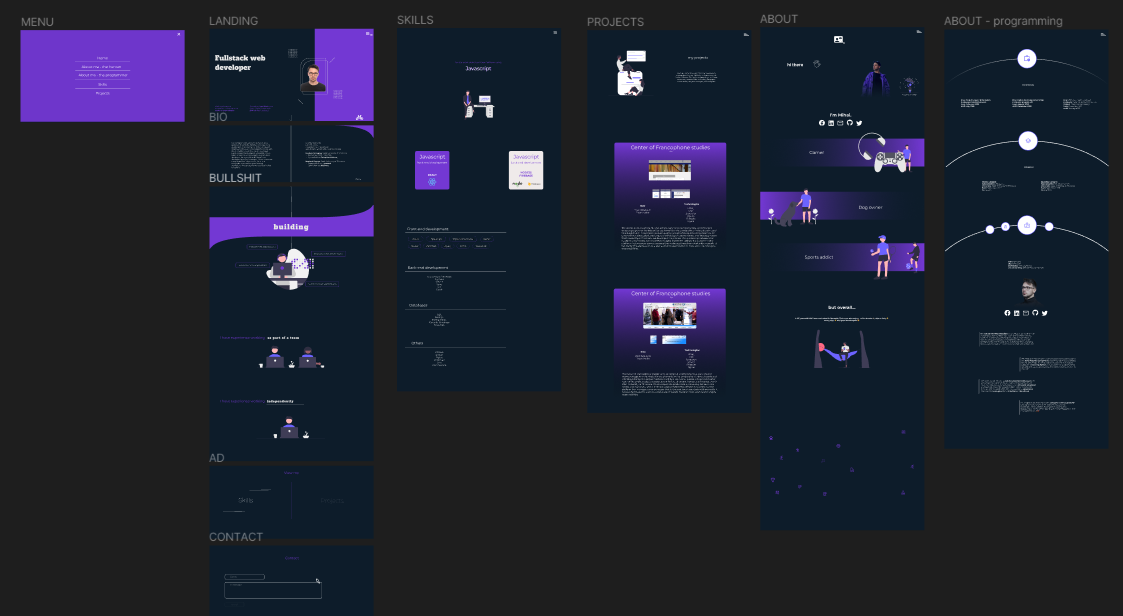
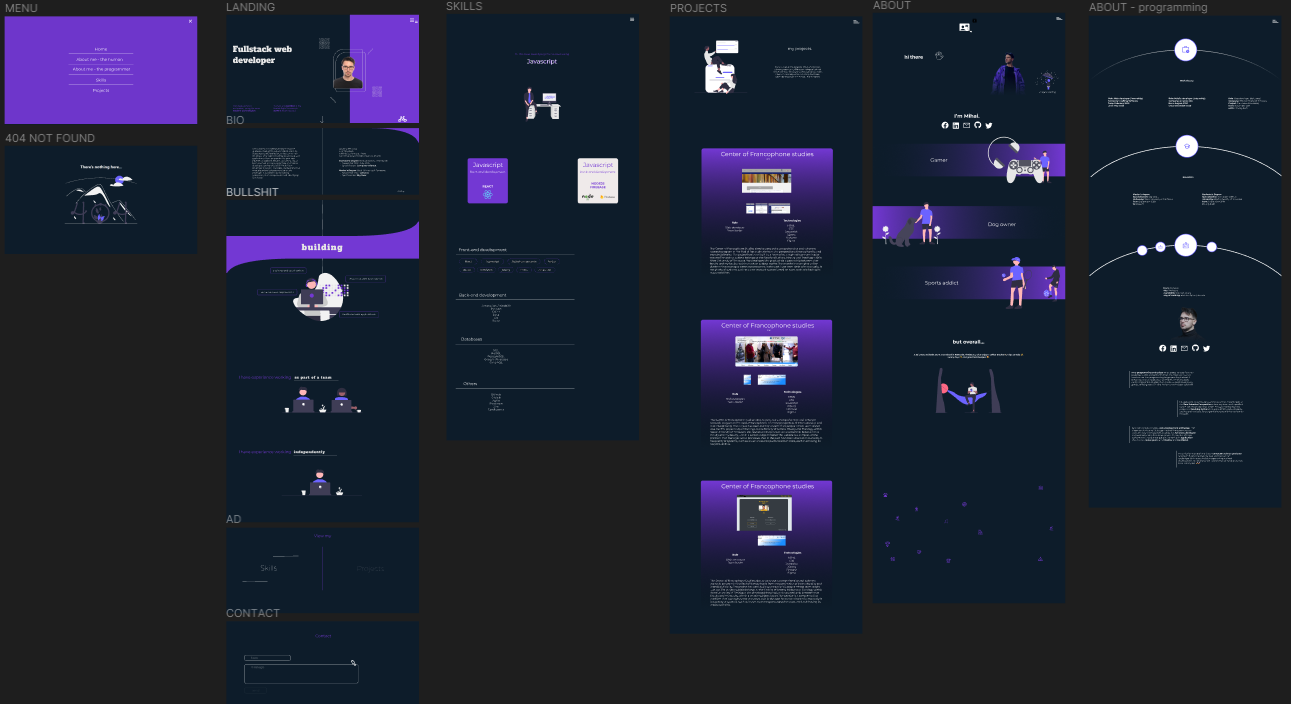
web title

diff --git a/src/App.tsx b/src/App.tsx
@@ -9,32 +9,72 @@ import About from './Components/about/About';
 import AboutIT from './Components/aboutIT/AboutIT';
 import Projects from './Components/projects/Projects';
 
+const notFoundSvg = <svg width="724" height="481" viewBox="0 0 724 481" fill="none" xmlns="http://www.w3.org/2000/svg">
+  <g clip-path="url(#clip0_247_18)">
+    <path d="M366.773 135.19C360.317 124.508 352.668 113.102 340.688 109.614C326.815 105.575 312.563 113.599 300.474 121.518C264.323 145.199 229.508 170.864 196.189 198.393L196.226 198.808C222.166 197.018 248.105 195.228 274.045 193.438C292.786 192.145 312.172 190.674 328.734 181.803C335.019 178.437 341.145 173.941 348.267 173.628C357.115 173.239 364.83 179.421 370.893 185.881C406.757 224.09 417.135 282.522 457.371 316.093C431.999 253.49 401.705 193 366.773 135.19Z" fill="#F2F2F2" />
+    <path d="M587.223 459.278C583.257 454.268 581.636 453.094 577.724 448.038C545.871 406.819 515.931 364.207 487.905 320.204C468.868 290.318 450.776 259.859 433.628 228.825C425.464 214.072 417.523 199.202 409.807 184.217C403.819 172.598 397.965 160.909 392.245 149.151C390.609 145.792 389.019 142.419 387.437 139.037C383.71 131.085 380.052 123.095 376.125 115.251C371.649 106.311 366.202 96.938 357.983 90.9315C354.243 88.0858 349.771 86.364 345.089 85.9673C338.399 85.535 332.226 88.2989 326.423 91.3175C283.967 113.467 244.22 141.238 208.27 172.837C172.227 204.508 140.01 240.288 112.277 279.448C111.429 280.66 109.422 279.502 110.279 278.282C113.651 273.511 117.09 268.791 120.596 264.123C164.188 206.116 217.638 156.234 278.504 116.756C288.744 110.117 299.177 103.789 309.802 97.7717C315.157 94.7376 320.536 91.7421 326.007 88.9319C331.37 86.1758 337.064 83.6975 343.191 83.6049C364.041 83.2806 374.836 106.905 382.252 122.801C384.582 127.804 386.941 132.791 389.328 137.763C398.348 156.64 407.716 175.344 417.431 193.875C423.426 205.317 429.553 216.691 435.811 227.999C455.287 263.212 475.988 297.712 497.913 331.498C526.958 376.253 555.771 415.79 588.859 457.642C589.769 458.8 588.141 460.452 587.223 459.278Z" fill="#E4E4E4" />
+    <path d="M206.209 161.172C204.998 159.82 203.794 158.469 202.575 157.118C192.96 146.48 182.643 135.964 169.44 129.865C163.145 126.865 156.273 125.272 149.3 125.195C142.093 125.218 135.048 127.109 128.389 129.757C125.241 131.016 122.162 132.444 119.13 133.965C115.665 135.71 112.262 137.57 108.874 139.446C102.516 142.967 96.2399 146.642 90.0464 150.471C77.7231 158.091 65.7858 166.293 54.2344 175.076C48.2462 179.631 42.3817 184.335 36.6407 189.189C31.301 193.697 26.0693 198.327 20.9456 203.078C19.8499 204.089 18.214 202.452 19.3096 201.441C20.66 200.183 22.0258 198.932 23.3917 197.697C27.2499 194.207 31.1699 190.784 35.1517 187.428C42.4126 181.299 49.8615 175.405 57.4984 169.749C69.3741 160.948 81.6586 152.743 94.3519 145.136C100.695 141.338 107.125 137.699 113.643 134.22C115.611 133.17 117.602 132.143 119.616 131.17C124.185 128.864 128.933 126.93 133.814 125.388C140.727 123.15 148.041 122.431 155.258 123.28C162.225 124.294 168.938 126.617 175.043 130.128C188.006 137.377 198.06 148.587 207.845 159.527C208.833 160.639 207.205 162.283 206.209 161.172Z" fill="#E4E4E4" />
+    <path d="M471.826 271.417L502.89 260.049L518.314 254.405C523.337 252.567 528.348 250.474 533.54 249.158C538.053 247.868 542.844 247.929 547.322 249.334C551.316 250.813 554.972 253.08 558.072 256.001C561.24 258.919 564.187 262.068 566.889 265.422C570.247 269.459 573.556 273.539 576.879 277.605C590.594 294.387 604.22 311.242 617.756 328.17C631.292 345.097 644.737 362.097 658.091 379.168C671.479 396.281 684.774 413.466 697.977 430.722C699.595 432.836 701.211 434.951 702.825 437.067C703.717 438.236 705.729 437.083 704.824 435.898C691.524 418.468 678.13 401.11 664.644 383.823C651.125 366.495 637.512 349.24 623.806 332.058C610.101 314.878 596.302 297.771 582.411 280.739C578.951 276.496 575.484 272.258 572.012 268.024C569.083 264.452 566.187 260.842 562.975 257.518C557.078 251.417 549.711 246.025 540.893 245.878C535.708 245.792 530.69 247.438 525.873 249.182C520.68 251.062 515.499 252.976 510.312 254.874L479.031 266.322L471.211 269.183C469.823 269.691 470.423 271.93 471.826 271.417Z" fill="#E4E4E4" />
+    <path d="M165.352 143.252C149.566 135.135 129.35 136.725 114.844 146.866C142.513 151.642 169.88 158.033 196.804 166.005C185.623 159.449 176.878 149.179 165.352 143.252Z" fill="#F2F2F2" />
+    <path d="M114.688 146.838L111.649 149.309C112.677 148.444 113.746 147.633 114.844 146.866C114.792 146.857 114.74 146.847 114.688 146.838Z" fill="#F2F2F2" />
+    <path d="M556.902 271.53C553.844 267.806 550.538 263.907 545.964 262.394L541.694 262.563C574.2 320.031 618.102 370.246 670.704 410.127C632.77 363.928 594.836 317.729 556.902 271.53Z" fill="#F2F2F2" />
+    <path d="M291.365 240.809C293.341 247.992 297.793 254.244 303.933 258.459C306.307 260.076 309.116 261.628 309.928 264.384C310.355 266.14 310.092 267.994 309.192 269.563C308.295 271.111 307.202 272.538 305.942 273.808L305.827 274.24C299.937 270.747 294.332 266.329 291.078 260.301C287.824 254.273 287.37 246.372 291.365 240.809Z" fill="#F2F2F2" />
+    <path d="M487.488 411.768C489.465 418.951 493.916 425.203 500.056 429.418C502.43 431.036 505.239 432.587 506.051 435.343C506.478 437.1 506.215 438.954 505.316 440.522C504.418 442.07 503.326 443.497 502.065 444.768L501.95 445.199C496.06 441.706 490.455 437.288 487.201 431.26C483.947 425.232 483.493 417.332 487.488 411.768Z" fill="#F2F2F2" />
+    <path d="M96.0832 399.978C98.0593 407.161 102.511 413.413 108.651 417.628C111.025 419.245 113.834 420.796 114.646 423.552C115.073 425.309 114.81 427.163 113.91 428.732C113.013 430.28 111.92 431.707 110.66 432.977L110.545 433.409C104.654 429.916 99.05 425.498 95.796 419.47C92.542 413.442 92.0877 405.541 96.0832 399.978Z" fill="#F2F2F2" />
+    <path d="M546.494 85.9007C570.202 85.9007 589.422 66.6712 589.422 42.9503C589.422 19.2295 570.202 0 546.494 0C522.785 0 503.565 19.2295 503.565 42.9503C503.565 66.6712 522.785 85.9007 546.494 85.9007Z" fill="#6C63FF" />
+    <path d="M623.963 9.99682C603.158 7.18321 579.406 18.4342 574.014 38.7344C572.655 35.125 570.184 32.0413 566.959 29.9288C563.733 27.8162 559.92 26.7843 556.07 26.9819C552.22 27.1796 548.533 28.5966 545.541 31.0284C542.548 33.4602 540.406 36.7807 539.424 40.5103L541.806 42.2171C586.39 51.8634 632.542 51.6547 677.037 41.6053C662.566 26.3884 644.768 12.8104 623.963 9.99682Z" fill="#F0F0F0" />
+    <path d="M534.739 67.264C513.934 64.4504 490.182 75.7013 484.79 96.0016C483.431 92.3922 480.96 89.3085 477.735 87.1959C474.51 85.0834 470.697 84.0514 466.847 84.2491C462.997 84.4467 459.309 85.8638 456.317 88.2955C453.325 90.7273 451.183 94.0478 450.2 97.7774L452.582 99.4842C497.166 109.131 543.318 108.922 587.814 98.8725C573.342 83.6555 555.544 70.0775 534.739 67.264Z" fill="#F0F0F0" />
+    <path d="M716.323 78.0923C716.237 78.0925 716.151 78.0792 716.069 78.0528C493.509 7.6327 297.354 16.8414 171.99 36.9669C154.93 39.7048 137.823 42.867 121.147 46.3664C116.889 47.2588 112.472 48.2153 108.018 49.2112C102.7 50.3963 97.4515 51.6168 92.4191 52.8373C90.2458 53.3521 88.1149 53.8711 86.0264 54.3941C82.8629 55.1754 79.653 55.9896 76.2121 56.8844C72.3672 57.8763 68.4606 58.9166 64.5984 59.9767C64.5843 59.9817 64.5699 59.9858 64.5553 59.9891L64.5557 59.9899C60.1933 61.1816 55.8539 62.4079 51.6576 63.6324C49.3864 64.2887 47.1933 64.936 45.0927 65.575C44.858 65.64 44.65 65.7025 44.4392 65.7666L43.9879 65.904C43.7265 65.9838 43.4684 66.0619 43.2103 66.1359L43.1938 66.1408L43.1942 66.1417L42.5112 66.3539C41.6966 66.6007 40.9017 66.8416 40.12 67.0818C19.4597 73.4539 8.10208 77.9871 7.98988 78.0315C7.88728 78.0727 7.77758 78.0932 7.66705 78.0919C7.55652 78.0906 7.44732 78.0676 7.34569 78.0241C7.24405 77.9806 7.15197 77.9175 7.07471 77.8385C6.99745 77.7594 6.93651 77.6658 6.89538 77.5631C6.85425 77.4605 6.83375 77.3507 6.83502 77.2401C6.83628 77.1296 6.85931 77.0203 6.90278 76.9186C6.94625 76.8169 7.00931 76.7248 7.08836 76.6475C7.16741 76.5702 7.26091 76.5092 7.36351 76.4681C7.47654 76.4237 18.8897 71.8674 39.6251 65.4714C40.4097 65.2305 41.2067 64.9895 42.0237 64.742L42.6583 64.5446C42.6801 64.5364 42.7019 64.5298 42.7241 64.5232C42.9809 64.45 43.2374 64.3719 43.498 64.2929L43.9501 64.1556C44.1753 64.0873 44.3973 64.0199 44.6245 63.9574C46.7108 63.3224 48.9113 62.6736 51.1882 62.0148C55.3862 60.7894 59.7297 59.5631 64.0954 58.3698C64.1089 58.3649 64.1229 58.3616 64.1365 58.3575C68.0122 57.2941 71.9332 56.2488 75.7904 55.2536C79.2367 54.358 82.4527 53.5422 85.6216 52.7592C87.7189 52.237 89.8539 51.7169 92.0266 51.1991C97.0647 49.9769 102.323 48.7548 107.652 47.5672C112.112 46.5704 116.537 45.6115 120.801 44.7184C137.504 41.2132 154.637 38.046 171.724 35.304C297.267 15.1497 493.703 5.92614 716.576 76.4475C716.768 76.508 716.931 76.6351 717.038 76.8059C717.144 76.9767 717.185 77.1798 717.155 77.3785C717.124 77.5772 717.023 77.7585 716.871 77.8894C716.718 78.0203 716.524 78.0923 716.323 78.0923Z" fill="#CCCCCC" />
+    <path d="M221.366 353.574C221.075 352.721 220.584 351.95 219.935 351.325C219.696 351.103 219.437 350.903 219.161 350.727C216.964 349.262 213.681 348.934 211.594 350.727C211.384 350.91 211.189 351.11 211.013 351.325C210.39 352.092 209.75 352.841 209.094 353.574C208.016 354.803 206.914 355.991 205.761 357.145C205.432 357.465 205.104 357.793 204.767 358.113C204.574 358.307 204.38 358.492 204.187 358.677C203.446 359.385 202.688 360.067 201.922 360.741C201.518 361.103 201.114 361.457 200.702 361.802C200.087 362.316 199.473 362.829 198.85 363.326C198.791 363.368 198.732 363.41 198.673 363.461C198.656 363.469 198.648 363.486 198.631 363.495C198.623 363.495 198.614 363.495 198.606 363.511C198.583 363.52 198.563 363.535 198.547 363.554C198.362 363.68 198.236 363.764 198.143 363.84C198.177 363.823 198.21 363.798 198.244 363.781C198.092 363.899 197.932 364.017 197.781 364.135C196.308 365.221 194.801 366.265 193.261 367.242C189.45 369.683 185.447 371.809 181.291 373.601C181.014 373.71 180.727 373.828 180.441 373.937C169.562 378.397 157.76 380.137 146.057 379.007C144.861 378.915 143.666 378.788 142.471 378.628C141.09 378.426 139.718 378.182 138.355 377.904C133.163 376.868 128.084 375.333 123.187 373.323C117.061 370.516 111.234 367.096 105.796 363.116C104.955 362.518 104.105 361.92 103.254 361.339C104.222 358.964 105.174 356.589 106.1 354.197C106.562 353.043 107.009 351.89 107.446 350.727C110.889 341.775 114.121 332.739 117.219 323.669C120.35 314.481 123.305 305.239 126.082 295.945C126.368 295.001 126.646 294.058 126.916 293.115C128.372 288.205 129.769 283.284 131.107 278.352C131.234 277.872 131.368 277.4 131.486 276.92C131.873 275.505 132.252 274.091 132.623 272.676C133.464 269.484 131.562 265.669 128.212 264.903C126.599 264.489 124.888 264.718 123.441 265.541C121.993 266.364 120.921 267.717 120.451 269.315C120.089 270.68 119.727 272.036 119.357 273.4C117.581 279.994 115.712 286.566 113.751 293.115C113.465 294.058 113.178 295.001 112.892 295.945C108.566 310.211 103.816 324.334 98.6418 338.314C98.0189 340.007 97.3876 341.694 96.7479 343.375C96.4364 344.201 96.125 345.026 95.8051 345.851C95.1907 347.477 94.5594 349.102 93.9281 350.727C93.5661 351.679 93.1957 352.631 92.8254 353.574C92.5813 354.172 92.3456 354.77 92.1099 355.359C89.71 354.497 87.2235 353.898 84.6943 353.574L84.2903 353.523C82.3294 353.287 80.3463 353.304 78.3897 353.574C75.4614 353.916 72.6438 354.897 70.1363 356.448C67.6287 358 65.4924 360.083 63.8783 362.551C59.8632 368.876 59.9137 377.921 65.5449 383.294C71.3444 388.827 80.1237 388.785 86.9501 385.323C90.5677 383.365 93.618 380.505 95.8051 377.02C96.643 375.756 97.4129 374.449 98.1115 373.104C98.2883 373.222 98.465 373.339 98.6418 373.466C99.3152 373.937 99.9886 374.417 100.654 374.889C104.528 377.697 108.611 380.206 112.867 382.393C122.018 386.945 131.869 389.925 142.008 391.21C142.235 391.235 142.454 391.269 142.681 391.294C143.801 391.438 144.929 391.547 146.057 391.64C162.236 392.86 178.436 389.547 192.84 382.073C194.06 381.441 195.27 380.779 196.468 380.085C198.328 379.007 200.146 377.862 201.922 376.649C202.89 375.992 203.833 375.327 204.767 374.628C208.85 371.619 212.656 368.251 216.139 364.564C217.461 363.175 218.726 361.74 219.935 360.261C221.079 359.05 221.738 357.462 221.787 355.797C221.781 355.037 221.638 354.284 221.366 353.574ZM81.9839 373.634C82.1607 373.508 82.3374 373.373 82.5058 373.238C82.4553 373.365 82.2111 373.508 81.9839 373.634ZM84.6859 370.914C84.4923 371.133 84.3155 371.352 84.1219 371.571C83.5329 372.23 82.9002 372.849 82.228 373.424C82.1354 373.508 82.0344 373.592 81.9334 373.668C81.9323 373.668 81.9312 373.668 81.9301 373.669C81.9291 373.669 81.9282 373.67 81.9274 373.67C81.9266 373.671 81.926 373.672 81.9256 373.673C81.9252 373.674 81.925 373.675 81.925 373.676C81.8034 373.731 81.6853 373.793 81.5714 373.862C81.2095 374.081 80.8391 374.283 80.4604 374.468C79.7187 374.741 78.9558 374.952 78.1793 375.1C77.5826 375.143 76.9838 375.149 76.3864 375.116H76.3695C75.9573 375.025 75.5499 374.912 75.1491 374.78C74.947 374.679 74.7534 374.561 74.5598 374.443C74.4841 374.375 74.4167 374.308 74.3746 374.266C74.2924 374.191 74.2164 374.109 74.1474 374.022C74.1475 374.021 74.1472 374.019 74.1468 374.018C74.1464 374.017 74.1458 374.016 74.145 374.016C74.1442 374.015 74.1433 374.014 74.1423 374.014C74.1412 374.013 74.1401 374.013 74.139 374.013C74.0464 373.845 73.9454 373.676 73.8528 373.508C73.848 373.504 73.845 373.498 73.8444 373.491C73.7771 373.281 73.7182 373.062 73.6676 372.843C73.6494 372.458 73.6522 372.073 73.676 371.689C73.789 371.151 73.9409 370.622 74.1306 370.106C74.301 369.74 74.495 369.385 74.7114 369.044C74.7282 369.011 74.8124 368.876 74.905 368.724C74.9134 368.716 74.9134 368.716 74.9134 368.708C75.0397 368.564 75.1659 368.413 75.3006 368.278C75.5279 368.025 75.772 367.806 76.0161 367.579C76.4908 367.268 76.9826 366.984 77.4891 366.728C78.2927 366.443 79.1173 366.22 79.9554 366.063C81.1913 365.965 82.4335 365.976 83.6674 366.097C84.8362 366.3 85.9893 366.584 87.1185 366.947C86.4341 368.276 85.6549 369.554 84.7869 370.771C84.7532 370.821 84.7196 370.872 84.6859 370.914ZM75.3258 368.143C75.2517 368.262 75.1641 368.373 75.0649 368.472C75.1317 368.348 75.22 368.236 75.3258 368.143Z" fill="#3F3D56" />
+    <path d="M196.064 267.564C195.988 270.208 195.912 272.853 195.837 275.497C195.677 281.367 195.511 287.24 195.34 293.115C195.163 299.726 194.978 306.334 194.784 312.94C194.692 316.35 194.596 319.761 194.498 323.172C194.237 332.36 193.979 341.545 193.724 350.727C193.699 351.679 193.665 352.622 193.64 353.574C193.513 358.13 193.387 362.686 193.261 367.242C193.118 372.186 192.977 377.129 192.84 382.073C192.739 385.778 192.635 389.487 192.529 393.198C191.771 420.088 191.013 446.978 190.256 473.869C190.224 475.534 189.548 477.122 188.371 478.299C187.194 479.477 185.607 480.153 183.943 480.185C182.273 480.171 180.675 479.502 179.494 478.32C178.313 477.138 177.643 475.54 177.63 473.869C178.051 458.743 178.477 443.618 178.909 428.493C179.288 414.816 179.672 401.139 180.062 387.463C180.189 382.957 180.315 378.449 180.441 373.937C180.635 367.15 180.826 360.362 181.014 353.574C181.039 352.622 181.073 351.679 181.098 350.727C181.115 349.894 181.14 349.068 181.165 348.235C181.536 335.055 181.906 321.872 182.276 308.687C182.428 303.499 182.574 298.308 182.714 293.115C182.882 287.195 183.051 281.277 183.219 275.362C183.295 272.76 183.362 270.166 183.438 267.564C183.47 265.899 184.145 264.311 185.322 263.133C186.499 261.955 188.087 261.28 189.751 261.248C191.421 261.261 193.019 261.931 194.2 263.112C195.381 264.294 196.05 265.893 196.064 267.564Z" fill="#3F3D56" />
+    <path d="M542.376 269.317C535.756 294.396 527.844 319.116 518.671 343.377C516.14 350.07 513.551 356.748 510.783 363.347L511.42 361.838C510.184 364.981 508.606 367.978 506.715 370.775C506.586 370.955 506.455 371.134 506.322 371.311C506.976 370.474 507.1 370.309 506.694 370.815C506.481 371.068 506.269 371.322 506.048 371.569C505.459 372.229 504.827 372.849 504.155 373.424C503.986 373.569 503.814 373.711 503.64 373.849L504.43 373.235C504.338 373.451 503.695 373.738 503.495 373.861C502.846 374.252 502.17 374.595 501.471 374.887L502.979 374.25C501.833 374.712 500.638 375.04 499.417 375.228L501.095 375.002C499.896 375.168 498.68 375.181 497.478 375.041L499.156 375.266C498.172 375.131 497.209 374.871 496.29 374.494L497.798 375.131C497.308 374.917 496.835 374.665 496.385 374.376C496.156 374.227 495.454 373.695 496.372 374.397C497.326 375.126 496.495 374.459 496.299 374.266C496.135 374.104 495.987 373.929 495.827 373.765C495.085 373.003 496.666 375.075 496.161 374.184C495.892 373.738 495.645 373.278 495.422 372.806L496.059 374.315C495.769 373.597 495.563 372.847 495.446 372.082L495.671 373.761C495.551 372.809 495.55 371.846 495.669 370.894L495.443 372.573C495.598 371.51 495.879 370.469 496.281 369.473L495.644 370.982C495.924 370.312 496.256 369.665 496.636 369.047C496.811 368.727 497.016 368.425 497.249 368.144C497.29 368.158 496.181 369.418 496.77 368.782C496.924 368.615 497.068 368.44 497.223 368.275C497.473 368.01 497.74 367.769 498.002 367.519C498.882 366.681 496.772 368.332 497.787 367.669C498.522 367.186 499.296 366.763 500.101 366.407L498.593 367.044C499.94 366.49 501.353 366.11 502.797 365.915L501.119 366.141C502.927 365.933 504.754 365.954 506.557 366.205L504.879 365.98C507.162 366.326 509.393 366.954 511.522 367.849L510.014 367.212C514.55 369.161 518.568 372.054 522.579 374.891C526.453 377.698 530.535 380.205 534.789 382.392C543.941 386.945 553.792 389.926 563.932 391.212C578.473 392.995 593.229 391.095 606.846 385.687C620.462 380.279 632.503 371.536 641.864 360.261C643.006 359.049 643.664 357.46 643.713 355.795C643.701 354.122 643.038 352.52 641.864 351.329C639.548 349.202 635.173 348.601 632.936 351.329C630.817 353.918 628.538 356.373 626.113 358.678C624.981 359.753 623.818 360.794 622.626 361.803C621.945 362.379 621.254 362.943 620.555 363.496C620.223 363.758 619.192 364.455 620.776 363.33C620.413 363.588 620.065 363.869 619.706 364.134C614.405 368.044 608.661 371.313 602.592 373.874L604.1 373.237C597.588 375.97 590.749 377.845 583.755 378.814L585.433 378.589C578.237 379.536 570.948 379.525 563.755 378.556L565.433 378.782C558.242 377.794 551.209 375.877 544.511 373.08L546.019 373.717C539.554 370.855 533.42 367.3 527.722 363.113C524.757 360.917 521.63 358.948 518.368 357.223C514.568 355.281 510.453 354.03 506.215 353.527C498.27 352.592 490.174 355.688 485.807 362.556C481.787 368.876 481.839 377.92 487.468 383.294C493.265 388.829 502.045 388.782 508.878 385.32C515.458 381.985 519.41 375.058 522.19 368.526C528.445 353.826 533.983 338.786 539.142 323.67C544.247 308.714 548.876 293.608 553.03 278.35C553.544 276.46 554.051 274.569 554.55 272.675C555.393 269.484 553.489 265.668 550.141 264.905C548.528 264.49 546.816 264.717 545.367 265.54C543.918 266.363 542.846 267.717 542.376 269.317Z" fill="#3F3D56" />
+    <path d="M605.365 267.563L603.092 348.237L600.832 428.49L599.554 473.869C599.568 475.54 600.238 477.138 601.418 478.319C602.599 479.501 604.197 480.171 605.867 480.185C607.531 480.153 609.118 479.477 610.295 478.3C611.472 477.122 612.148 475.534 612.18 473.869L614.452 393.196L616.712 312.942L617.991 267.563C617.976 265.893 617.307 264.294 616.126 263.113C614.945 261.931 613.348 261.261 611.678 261.247C610.013 261.279 608.426 261.955 607.249 263.133C606.072 264.31 605.397 265.898 605.365 267.563Z" fill="#3F3D56" />
+    <path opacity="0.2" d="M386.852 451.345H388.813V362.041H434.543V360.084H388.813V322.402H424.128C423.61 321.743 423.078 321.093 422.53 320.451H388.813V295.563C388.164 295.286 387.511 295.019 386.852 294.768V320.451H348.426V288.562C347.767 288.592 347.119 288.638 346.465 288.693V320.451H315.809V296.659C315.151 296.951 314.503 297.257 313.859 297.579V320.451H288.089V322.402H313.859V360.084H288.089V362.041H313.859V451.345H315.809V362.041C319.835 362.04 323.822 362.833 327.542 364.374C331.262 365.915 334.641 368.174 337.488 371.022C340.335 373.871 342.593 377.252 344.133 380.974C345.674 384.695 346.466 388.684 346.465 392.712V451.345H348.426V362.041H386.852V451.345ZM315.809 360.084V322.402H346.465V360.084H315.809ZM348.426 360.084V322.402H349.195C354.14 322.402 359.037 323.377 363.607 325.271C368.176 327.165 372.327 329.941 375.824 333.44C379.321 336.939 382.094 341.093 383.987 345.665C385.879 350.236 386.853 355.136 386.852 360.084H348.426Z" fill="black" />
+    <path d="M374.881 424.568C372.413 435.583 366.502 445.524 358.004 452.949C357.381 453.488 356.758 454.01 356.11 454.524C354.536 454.667 352.973 454.813 351.422 454.962C350.134 455.08 348.863 455.206 347.6 455.324L347.373 455.349L347.213 453.968L346.573 448.376C344.092 444.323 342.554 439.762 342.073 435.033C341.592 430.304 342.181 425.527 343.796 421.056C346.018 415.06 350.041 409.763 353.998 404.508C359.46 397.249 364.772 390.073 364.965 381.222C367.653 384.664 369.888 388.437 371.615 392.448C369.986 393.216 368.522 394.294 367.305 395.623C366.96 396.002 366.615 396.533 366.851 396.987C367.053 397.375 367.558 397.467 367.996 397.518C369.048 397.627 370.108 397.737 371.16 397.846C372.002 397.939 372.844 398.023 373.686 398.116C374.704 401.46 375.395 404.895 375.748 408.373C376.315 413.784 376.022 419.25 374.881 424.568Z" fill="#3F3D56" />
+    <path d="M402.827 402.495C397.861 406.108 394.957 411.304 392.701 417.031C390.389 417.771 388.309 419.1 386.666 420.888C386.321 421.267 385.976 421.798 386.211 422.252C386.413 422.64 386.918 422.732 387.356 422.783C388.408 422.892 389.469 423.002 390.521 423.111C388.265 429.882 386.194 436.889 382.205 442.607C379.551 446.383 376.093 449.521 372.079 451.795C370.984 452.419 369.854 452.979 368.695 453.471C364.419 453.8 360.224 454.151 356.111 454.524C354.537 454.667 352.974 454.813 351.422 454.962C350.135 455.08 348.864 455.206 347.601 455.324C347.593 454.861 347.593 454.398 347.601 453.935C347.867 441.596 352.404 429.732 360.437 420.366C360.816 419.928 361.203 419.499 361.599 419.069C365.669 414.72 370.455 411.102 375.749 408.374C384.09 404.034 393.439 402.005 402.827 402.495Z" fill="#6C63FF" />
+    <path d="M352.879 450.642L351.91 453.505L351.422 454.962C350.134 455.08 348.863 455.206 347.601 455.324L347.374 455.349C345.976 455.493 344.587 455.636 343.199 455.779C342.837 455.358 342.475 454.928 342.121 454.49C333.335 443.846 329.118 430.154 330.391 416.408C331.664 402.662 338.323 389.978 348.914 381.13C347.803 386.949 349.099 392.524 351.229 398.057C351.001 398.15 350.783 398.242 350.572 398.343C348.943 399.111 347.479 400.189 346.263 401.518C345.917 401.897 345.572 402.428 345.808 402.883C346.01 403.27 346.515 403.363 346.953 403.413C348.005 403.523 349.065 403.632 350.118 403.742C350.959 403.834 351.801 403.918 352.643 404.011C353.038 404.053 353.434 404.095 353.83 404.137C353.889 404.264 353.939 404.382 353.998 404.508C356.397 409.713 358.981 414.942 360.437 420.366C360.802 421.727 361.089 423.107 361.296 424.501C361.944 429.211 361.524 434.006 360.067 438.532C358.61 443.057 356.153 447.196 352.879 450.642Z" fill="#6C63FF" />
+    <path d="M437.605 328.495C430.359 314.353 419.133 302.454 405.929 293.71C392.683 284.979 377.484 279.661 361.686 278.232C359.615 278.043 357.539 277.933 355.458 277.901C352.999 277.864 316.009 288.539 303.618 297.255C291.233 305.866 281.046 317.269 273.877 330.544C266.721 343.891 263.201 358.888 263.67 374.027C264.284 389.258 268.527 404.121 276.046 417.378C283.463 430.593 293.993 441.794 306.722 450.009C319.633 458.251 332.602 480.104 347.845 480.875C363.203 481.653 380.718 461.038 394.725 454.779C408.732 448.468 420.842 438.594 429.847 426.141C438.597 413.938 444.258 399.793 446.344 384.919C448.51 369.69 447.501 353.984 442.303 339.429C440.969 335.689 439.4 332.037 437.605 328.495C436.108 325.543 431.717 324.456 428.968 326.229C427.552 327.101 426.527 328.486 426.105 330.096C425.683 331.705 425.897 333.415 426.703 334.871C427.583 336.604 428.401 338.367 429.157 340.157L428.521 338.649C431.383 345.533 433.329 352.764 434.309 360.156L434.084 358.477C435.126 366.496 435.108 374.618 434.028 382.632L434.253 380.953C433.162 388.967 431.024 396.802 427.894 404.259L428.531 402.75C426.921 406.555 425.044 410.241 422.915 413.781C421.836 415.57 420.691 417.316 419.48 419.021C418.949 419.769 418.401 420.504 417.848 421.237C417.128 422.193 418.831 419.988 418.086 420.926C417.959 421.086 417.833 421.246 417.706 421.405C417.323 421.883 416.936 422.357 416.542 422.826C413.918 425.959 411.054 428.883 407.977 431.571C407.21 432.241 406.431 432.895 405.638 433.534C405.244 433.853 404.854 434.185 404.442 434.482C404.458 434.47 405.772 433.471 404.994 434.051C404.75 434.233 404.507 434.419 404.262 434.6C402.629 435.811 400.953 436.959 399.233 438.046C395.274 440.542 391.121 442.714 386.813 444.542L388.321 443.905C380.89 447.035 373.081 449.173 365.092 450.265L366.771 450.039C358.786 451.119 350.694 451.133 342.706 450.082L344.384 450.308C337.124 449.332 330.023 447.411 323.261 444.594L324.769 445.231C320.852 443.576 317.076 441.607 313.476 439.343C311.695 438.22 309.96 437.028 308.271 435.766C308.03 435.586 307.792 435.404 307.552 435.222C306.781 434.641 308.105 435.652 308.116 435.659C307.668 435.337 307.237 434.993 306.824 434.627C306.008 433.963 305.205 433.283 304.415 432.588C301.254 429.802 298.302 426.788 295.583 423.569C294.902 422.764 294.236 421.946 293.584 421.117C293.302 420.758 292.788 420.031 293.925 421.563C293.775 421.361 293.62 421.163 293.469 420.963C293.106 420.482 292.748 419.996 292.395 419.508C291.159 417.797 289.984 416.043 288.87 414.248C286.353 410.184 284.156 405.93 282.3 401.524L282.936 403.033C279.899 395.802 277.821 388.203 276.758 380.432L276.983 382.111C276.024 374.947 276.01 367.688 276.942 360.521L276.717 362.2C277.673 355.26 279.539 348.475 282.268 342.023L281.631 343.532C283.348 339.492 285.373 335.591 287.688 331.862C288.847 329.997 290.075 328.176 291.373 326.401C291.667 325.998 291.965 325.597 292.267 325.199C292.54 324.838 293.29 323.941 292.01 325.526C292.135 325.371 292.256 325.211 292.38 325.054C293.092 324.151 293.821 323.263 294.568 322.389C297.394 319.078 300.456 315.976 303.729 313.107C304.556 312.382 305.396 311.672 306.249 310.977C306.637 310.662 307.027 310.349 307.42 310.04C307.577 309.917 307.737 309.795 307.893 309.671C306.212 311.009 307.426 310.035 307.807 309.749C309.566 308.431 311.372 307.178 313.224 305.992C317.343 303.357 321.675 301.073 326.176 299.164L324.668 299.8C331.199 297.056 360.139 290.579 365.402 291.286L363.724 291.061C371.46 292.141 379.022 294.231 386.215 297.278L384.707 296.641C388.352 298.19 391.895 299.97 395.313 301.971C397.021 302.973 398.695 304.029 400.336 305.14C401.112 305.666 401.881 306.203 402.641 306.753C403.021 307.027 403.398 307.305 403.774 307.586C403.983 307.741 404.19 307.899 404.398 308.055C405.273 308.712 403.193 307.105 404.11 307.831C407.179 310.243 410.094 312.846 412.837 315.624C414.184 316.996 415.485 318.413 416.74 319.873C417.383 320.622 418.014 321.382 418.631 322.153C418.937 322.536 419.982 323.922 418.702 322.224C419.015 322.639 419.331 323.051 419.64 323.469C422.3 327.072 424.662 330.885 426.703 334.871C428.213 337.816 432.584 338.915 435.341 337.137C436.757 336.265 437.783 334.88 438.205 333.27C438.627 331.66 438.412 329.95 437.605 328.495Z" fill="#3F3D56" />
+    <path d="M364.047 431.571C363.395 431.601 362.75 431.43 362.199 431.081C361.648 430.732 361.217 430.222 360.965 429.619C360.714 429.017 360.653 428.352 360.792 427.715C360.931 427.077 361.262 426.497 361.741 426.054C361.821 425.735 361.879 425.506 361.959 425.187C361.93 425.117 361.901 425.048 361.872 424.979C358.943 417.991 340.252 437.471 339.444 444.038C339.089 446.941 339.239 449.884 339.888 452.736C333.834 439.522 330.69 425.161 330.67 410.625C330.669 406.978 330.871 403.333 331.276 399.708C331.612 396.736 332.076 393.786 332.671 390.857C335.916 374.962 342.883 360.064 353 347.387C358.786 347.71 363.857 346.828 364.346 335.609C364.433 333.613 365.913 331.885 366.239 329.919C365.687 329.992 365.125 330.037 364.573 330.073C364.401 330.082 364.22 330.092 364.048 330.101L363.983 330.104C363.376 330.131 362.774 329.982 362.249 329.675C361.725 329.368 361.3 328.915 361.027 328.373C360.753 327.83 360.642 327.219 360.707 326.615C360.773 326.01 361.011 325.437 361.394 324.965C361.632 324.672 361.871 324.378 362.11 324.085C362.472 323.632 362.843 323.188 363.205 322.735C363.247 322.692 363.287 322.646 363.323 322.599C363.74 322.082 364.156 321.575 364.573 321.059C363.813 319.878 362.79 318.889 361.585 318.169C357.41 315.723 351.651 317.417 348.635 321.195C345.611 324.973 345.041 330.273 346.091 334.993C347.124 339.009 348.833 342.821 351.144 346.263C350.917 346.553 350.682 346.834 350.456 347.124C346.317 352.448 342.71 358.165 339.687 364.193C340.542 357.508 330.081 333.363 326.036 328.249C321.176 322.106 311.212 324.787 310.356 332.574C310.348 332.65 310.34 332.725 310.332 332.8C310.933 333.14 311.521 333.5 312.096 333.88C312.819 334.364 313.379 335.054 313.703 335.862C314.028 336.669 314.1 337.555 313.912 338.405C313.724 339.254 313.284 340.027 312.649 340.621C312.015 341.216 311.216 341.606 310.356 341.738L310.268 341.752C302.225 353.242 328.01 383.148 334.464 376.433C331.426 385.047 329.521 394.019 328.795 403.124C328.385 408.495 328.409 413.892 328.868 419.259L328.841 419.069C327.407 407.378 302.805 389.995 295.621 391.443C291.482 392.277 287.406 392.088 288.034 396.265C288.044 396.331 288.054 396.398 288.065 396.465C289.18 396.919 290.265 397.443 291.315 398.032C291.916 398.371 292.505 398.731 293.08 399.112C293.803 399.595 294.363 400.286 294.687 401.093C295.011 401.9 295.084 402.787 294.896 403.636C294.708 404.486 294.268 405.258 293.633 405.853C292.999 406.448 292.2 406.837 291.34 406.97L291.252 406.983C291.189 406.992 291.134 407.001 291.071 407.01C287.41 419.615 314.562 439.956 331.068 433.483H331.077C332.713 440.596 335.083 447.518 338.15 454.14H363.414C363.504 453.859 363.586 453.569 363.667 453.288C361.329 453.436 358.981 453.296 356.677 452.872C358.551 450.571 360.425 448.251 362.3 445.95C362.342 445.907 362.381 445.862 362.418 445.814C363.368 444.636 364.328 443.468 365.279 442.29L365.28 442.288C365.33 438.678 364.916 435.076 364.048 431.572L364.047 431.571ZM335.116 374.63L335.129 374.612L335.116 374.648V374.63ZM329.52 425.103L329.302 424.614C329.312 424.26 329.312 423.907 329.302 423.545C329.302 423.445 329.284 423.345 329.284 423.246C329.366 423.871 329.438 424.496 329.529 425.121L329.52 425.103Z" fill="#3F3D56" />
+    <path d="M80.1741 378.974C85.2877 378.974 89.4331 374.826 89.4331 369.71C89.4331 364.594 85.2877 360.446 80.1741 360.446C75.0605 360.446 70.915 364.594 70.915 369.71C70.915 374.826 75.0605 378.974 80.1741 378.974Z" fill="#3F3D56" />
+    <path d="M191.282 480.033C196.396 480.033 200.542 475.886 200.542 470.769C200.542 465.653 196.396 461.506 191.282 461.506C186.169 461.506 182.023 465.653 182.023 470.769C182.023 475.886 186.169 480.033 191.282 480.033Z" fill="#3F3D56" />
+    <path d="M612.99 480.033C618.104 480.033 622.25 475.886 622.25 470.769C622.25 465.653 618.104 461.506 612.99 461.506C607.877 461.506 603.731 465.653 603.731 470.769C603.731 475.886 607.877 480.033 612.99 480.033Z" fill="#3F3D56" />
+    <path d="M635.717 362.13C640.831 362.13 644.976 357.983 644.976 352.866C644.976 347.75 640.831 343.603 635.717 343.603C630.603 343.603 626.458 347.75 626.458 352.866C626.458 357.983 630.603 362.13 635.717 362.13Z" fill="#3F3D56" />
+    <path d="M608.782 276.23C613.895 276.23 618.041 272.082 618.041 266.966C618.041 261.85 613.895 257.702 608.782 257.702C603.668 257.702 599.522 261.85 599.522 266.966C599.522 272.082 603.668 276.23 608.782 276.23Z" fill="#3F3D56" />
+    <path d="M222.426 352.867C222.421 355.233 221.506 357.506 219.872 359.217C218.237 360.927 216.008 361.944 213.646 362.055C211.283 362.167 208.968 361.366 207.18 359.818C205.391 358.269 204.266 356.092 204.037 353.737C203.809 351.382 204.493 349.029 205.95 347.165C207.407 345.301 209.525 344.068 211.864 343.723C214.204 343.377 216.587 343.945 218.52 345.308C220.453 346.672 221.789 348.727 222.25 351.047C222.368 351.647 222.428 352.256 222.426 352.867Z" fill="#3F3D56" />
+    <path d="M407.608 303.179C412.721 303.179 416.867 299.031 416.867 293.915C416.867 288.799 412.721 284.651 407.608 284.651C402.494 284.651 398.349 288.799 398.349 293.915C398.349 299.031 402.494 303.179 407.608 303.179Z" fill="#3F3D56" />
+    <path d="M315.859 293.915C315.853 296.281 314.939 298.555 313.304 300.265C311.67 301.976 309.441 302.992 307.079 303.104C304.716 303.216 302.401 302.415 300.613 300.866C298.824 299.318 297.699 297.141 297.47 294.786C297.241 292.43 297.926 290.077 299.383 288.213C300.84 286.349 302.957 285.117 305.297 284.771C307.637 284.426 310.02 284.993 311.953 286.357C313.886 287.72 315.221 289.775 315.682 292.096C315.801 292.695 315.86 293.304 315.859 293.915Z" fill="#3F3D56" />
+    <path d="M196.333 266.966C196.327 269.332 195.412 271.606 193.778 273.316C192.144 275.027 189.915 276.043 187.552 276.155C185.19 276.267 182.875 275.465 181.086 273.917C179.298 272.369 178.173 270.192 177.944 267.836C177.715 265.481 178.4 263.128 179.857 261.264C181.314 259.4 183.431 258.168 185.771 257.822C188.11 257.477 190.493 258.044 192.427 259.408C194.36 260.771 195.695 262.826 196.156 265.147C196.275 265.746 196.334 266.355 196.333 266.966Z" fill="#3F3D56" />
+    <path d="M504.407 382.342C509.52 382.342 513.666 378.195 513.666 373.078C513.666 367.962 509.52 363.815 504.407 363.815C499.293 363.815 495.147 367.962 495.147 373.078C495.147 378.195 499.293 382.342 504.407 382.342Z" fill="#3F3D56" />
+    <path d="M358.787 298.126C366.225 298.126 372.255 292.093 372.255 284.651C372.255 277.209 366.225 271.177 358.787 271.177C351.349 271.177 345.319 277.209 345.319 284.651C345.319 292.093 351.349 298.126 358.787 298.126Z" fill="#3F3D56" />
+    <path d="M722.998 480.741L1.00223 481C0.870613 481 0.740283 480.974 0.618686 480.924C0.49709 480.873 0.386611 480.799 0.293545 480.706C0.200479 480.613 0.126646 480.503 0.0762794 480.381C0.0259124 480.259 0 480.129 0 479.997C0 479.865 0.0259124 479.735 0.0762794 479.613C0.126646 479.492 0.200479 479.381 0.293545 479.288C0.386611 479.195 0.49709 479.121 0.618686 479.071C0.740283 479.02 0.870613 478.994 1.00223 478.994L722.998 478.736C723.263 478.736 723.517 478.842 723.705 479.03C723.892 479.218 723.997 479.473 723.997 479.738C723.997 480.004 723.892 480.258 723.705 480.446C723.517 480.634 723.263 480.74 722.998 480.741Z" fill="#CACACA" />
+  </g>
+  <defs>
+    <clipPath id="clip0_247_18">
+      <rect width="724" height="481" fill="white" />
+    </clipPath>
+  </defs>
+</svg>
+
+
 function App() {
   return (
     <div className="App">
-      <Menu/>
+      <Menu />
       <Routes>
-        <Route path="/" element={<Home/>}></Route>
-        <Route path="/skills" element={<Skills/>}></Route>
-        <Route path="/projects" element={<Projects/>}></Route>
-        <Route path="/about" element={<About/>}></Route>
-        <Route path="/about-the-programmer" element={<AboutIT/>}></Route>
+        <Route path="/" element={<Home />}></Route>
+        <Route path="/skills" element={<Skills />}></Route>
+        <Route path="/projects" element={<Projects />}></Route>
+        <Route path="/about" element={<About />}></Route>
+        <Route path="/about-the-programmer" element={<AboutIT />}></Route>
+        <Route path="*" element={<div id="four04">
+          <h1>There's nothing here...</h1>
+        
+          {notFoundSvg}
+
+        </div>} />
       </Routes>
     </div>
   );
 }
-
-{/* <Routes>
-<Route path="/" element={<HomePage />}></Route>
-<Route path="/tech" element={<SecondPage />}></Route>
-<Route
-  path="/thanks"
-  element={<Thanks text="Thank you for your rating" />}
-></Route>
-<Route
-  path="*"
-  element={<Thanks text="Error 404 [not found]. But..." />}
-/>
-</Routes> */}
 
 export default App;

diff --git a/public/index.html b/public/index.html
@@ -9,7 +9,6 @@
       name="description"
       content="Web site created using create-react-app"
     />
-    <link rel="apple-touch-icon" href="%PUBLIC_URL%/logo192.png" />
     <!--
       manifest.json provides metadata used when your web app is installed on a
       user's mobile device or desktop. See https://developers.google.com/web/fundamentals/web-app-manifest/
@@ -24,7 +23,7 @@
       work correctly both with client-side routing and a non-root public URL.
       Learn how to configure a non-root public URL by running `npm run build`.
     -->
-    <title>React App</title>
+    <title>Mihai's website</title>
   </head>
   <body>
     <noscript>You need to enable JavaScript to run this app.</noscript>

diff --git a/src/App.scss b/src/App.scss
@@ -8,4 +8,15 @@
     min-height: 100vh;
     
     // padding-bottom: 30cm;
+    #four04{
+        width: 100%;
+        height: 100vh;
+        display: flex;
+        align-items: center;
+        justify-content: center;
+        flex-direction: column;
+        svg{
+            width: 50vw;
+        }
+    }
 }
